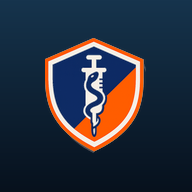
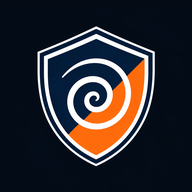
feat(vortice): novo ícone do app — escudo CT-Med com espiral do vórtice
Mesmo tratamento do ISR: fundo achatado para #040b15 e cache do
service worker para v5.

Claude-Session: https://claude.ai/code/session_01FMT3nK8FYQ6o1hbfhvXT5G

diff --git a/vortice/sw.js b/vortice/sw.js
@@ -1,4 +1,4 @@
-const C='ctmed-resgate-v4';const A=['./','index.html','manifest.webmanifest','icon-192.png','icon-512.png','apple-touch-icon.png'];
+const C='ctmed-resgate-v5';const A=['./','index.html','manifest.webmanifest','icon-192.png','icon-512.png','apple-touch-icon.png'];
 self.addEventListener('install',e=>{e.waitUntil(caches.open(C).then(c=>c.addAll(A)).then(()=>self.skipWaiting()))});
 self.addEventListener('activate',e=>{e.waitUntil(caches.keys().then(k=>Promise.all(k.filter(x=>x!==C).map(x=>caches.delete(x)))).then(()=>self.clients.claim()))});
 self.addEventListener('fetch',e=>{if(e.request.method!=='GET')return;e.respondWith(fetch(e.request).then(r=>{const cp=r.clone();caches.open(C).then(c=>c.put(e.request,cp));return r}).catch(()=>caches.match(e.request).then(r=>r||caches.match('index.html'))))});
